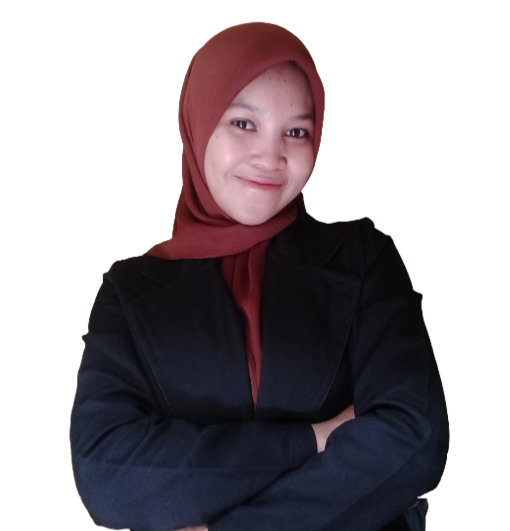
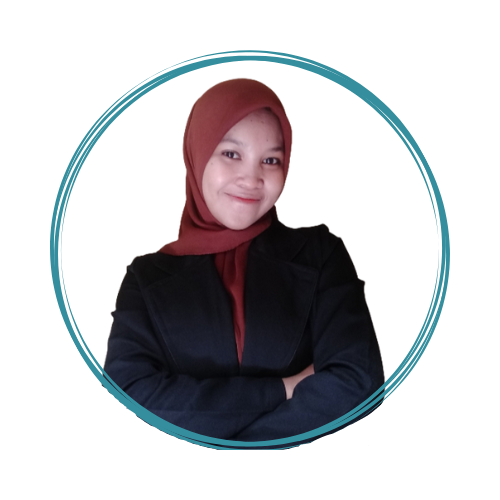
Section About

diff --git a/index.html b/index.html
@@ -39,6 +39,36 @@
             </div>
         </div>
     </header>
-    <!-- Header END-->
+    <!-- Header END -->
+
+    <!-- Section About -->
+     <section id="about">
+        <p class="heading-p">Get to know more</p>
+        <h1 class="heading">About Me</h1>
+        <div class="container about-container">
+            <div class="about-left">
+                <img src="img/career.png" alt="">
+            </div>
+            <div class="about-right">
+                <div class="basic-edu">
+                    <div class="edu-box">
+                        <img src="img/passion.png" class="icon1">
+                        <h4>Passionate</h4>
+                        <p>I have passion in<br> Web Development</p>
+                    </div>
+                    <div class="edu-box">
+                        <img src="img/education.png" class="icon1">
+                        <h4>Education</h4>
+                        <p>Bachelor Degree<br> In Computer Science</p>
+                    </div>
+                </div>
+                <p>
+                    Lorem ipsum dolor sit amet consectetur adipisicing elit. Possimus consectetur a, autem velit maiores ipsam iusto, magni et eaque vero nemo repellendus. Neque placeat voluptatem itaque hic fugiat obcaecati maiores!
+                </p>
+            </div>
+        </div>
+     </section>
+    <!-- Section About END -->
+
 </body>
 </html>

diff --git a/style.css b/style.css
@@ -56,6 +56,7 @@ h5{
 p{
     font-size: 17px;
     line-height: 140%;
+    color: var(--color-dark-variant);
 }
 
 a{
@@ -74,6 +75,7 @@ a:hover{
 
 .heading-p{
     padding: 9rem 0 0 0;
+    text-align: center;
 }
 
 .btn{
@@ -180,12 +182,51 @@ header{
 }
 
 .header-right h2{
-    margin: .4rem 0;
+    margin: .3rem 0;
 }
 
 .header-right .header-action-aria{
-    margin: 1rem 0 0 0;
+    margin: .7rem 0 0 0;
     display: flex;
     gap: 1rem;
 }
+
+.header-social{
+    display: flex;
+    gap: .7rem;
+    justify-content: center;
+    margin: .7rem auto;
+}
 /*Header END*/
+
+/*Section About END*/
+.about-container{
+    display: grid;
+    grid-template-columns: 38% auto;
+    gap: 4rem;
+    align-items: center;
+}
+
+.about-left{
+    border-radius: 20px;
+    overflow: hidden;
+}
+
+.basic-edu{
+    display: flex;
+    gap: 33px;
+    margin: 0 0 33px;
+}
+
+.edu-box{
+    padding: 24px;
+    text-align: center;
+    border: 1px solid var(--color-dark-variant);
+    border-radius: 20px;
+    width: 100%;
+}
+
+.edu-box img{
+    margin: auto;
+}
+/*About END*/
